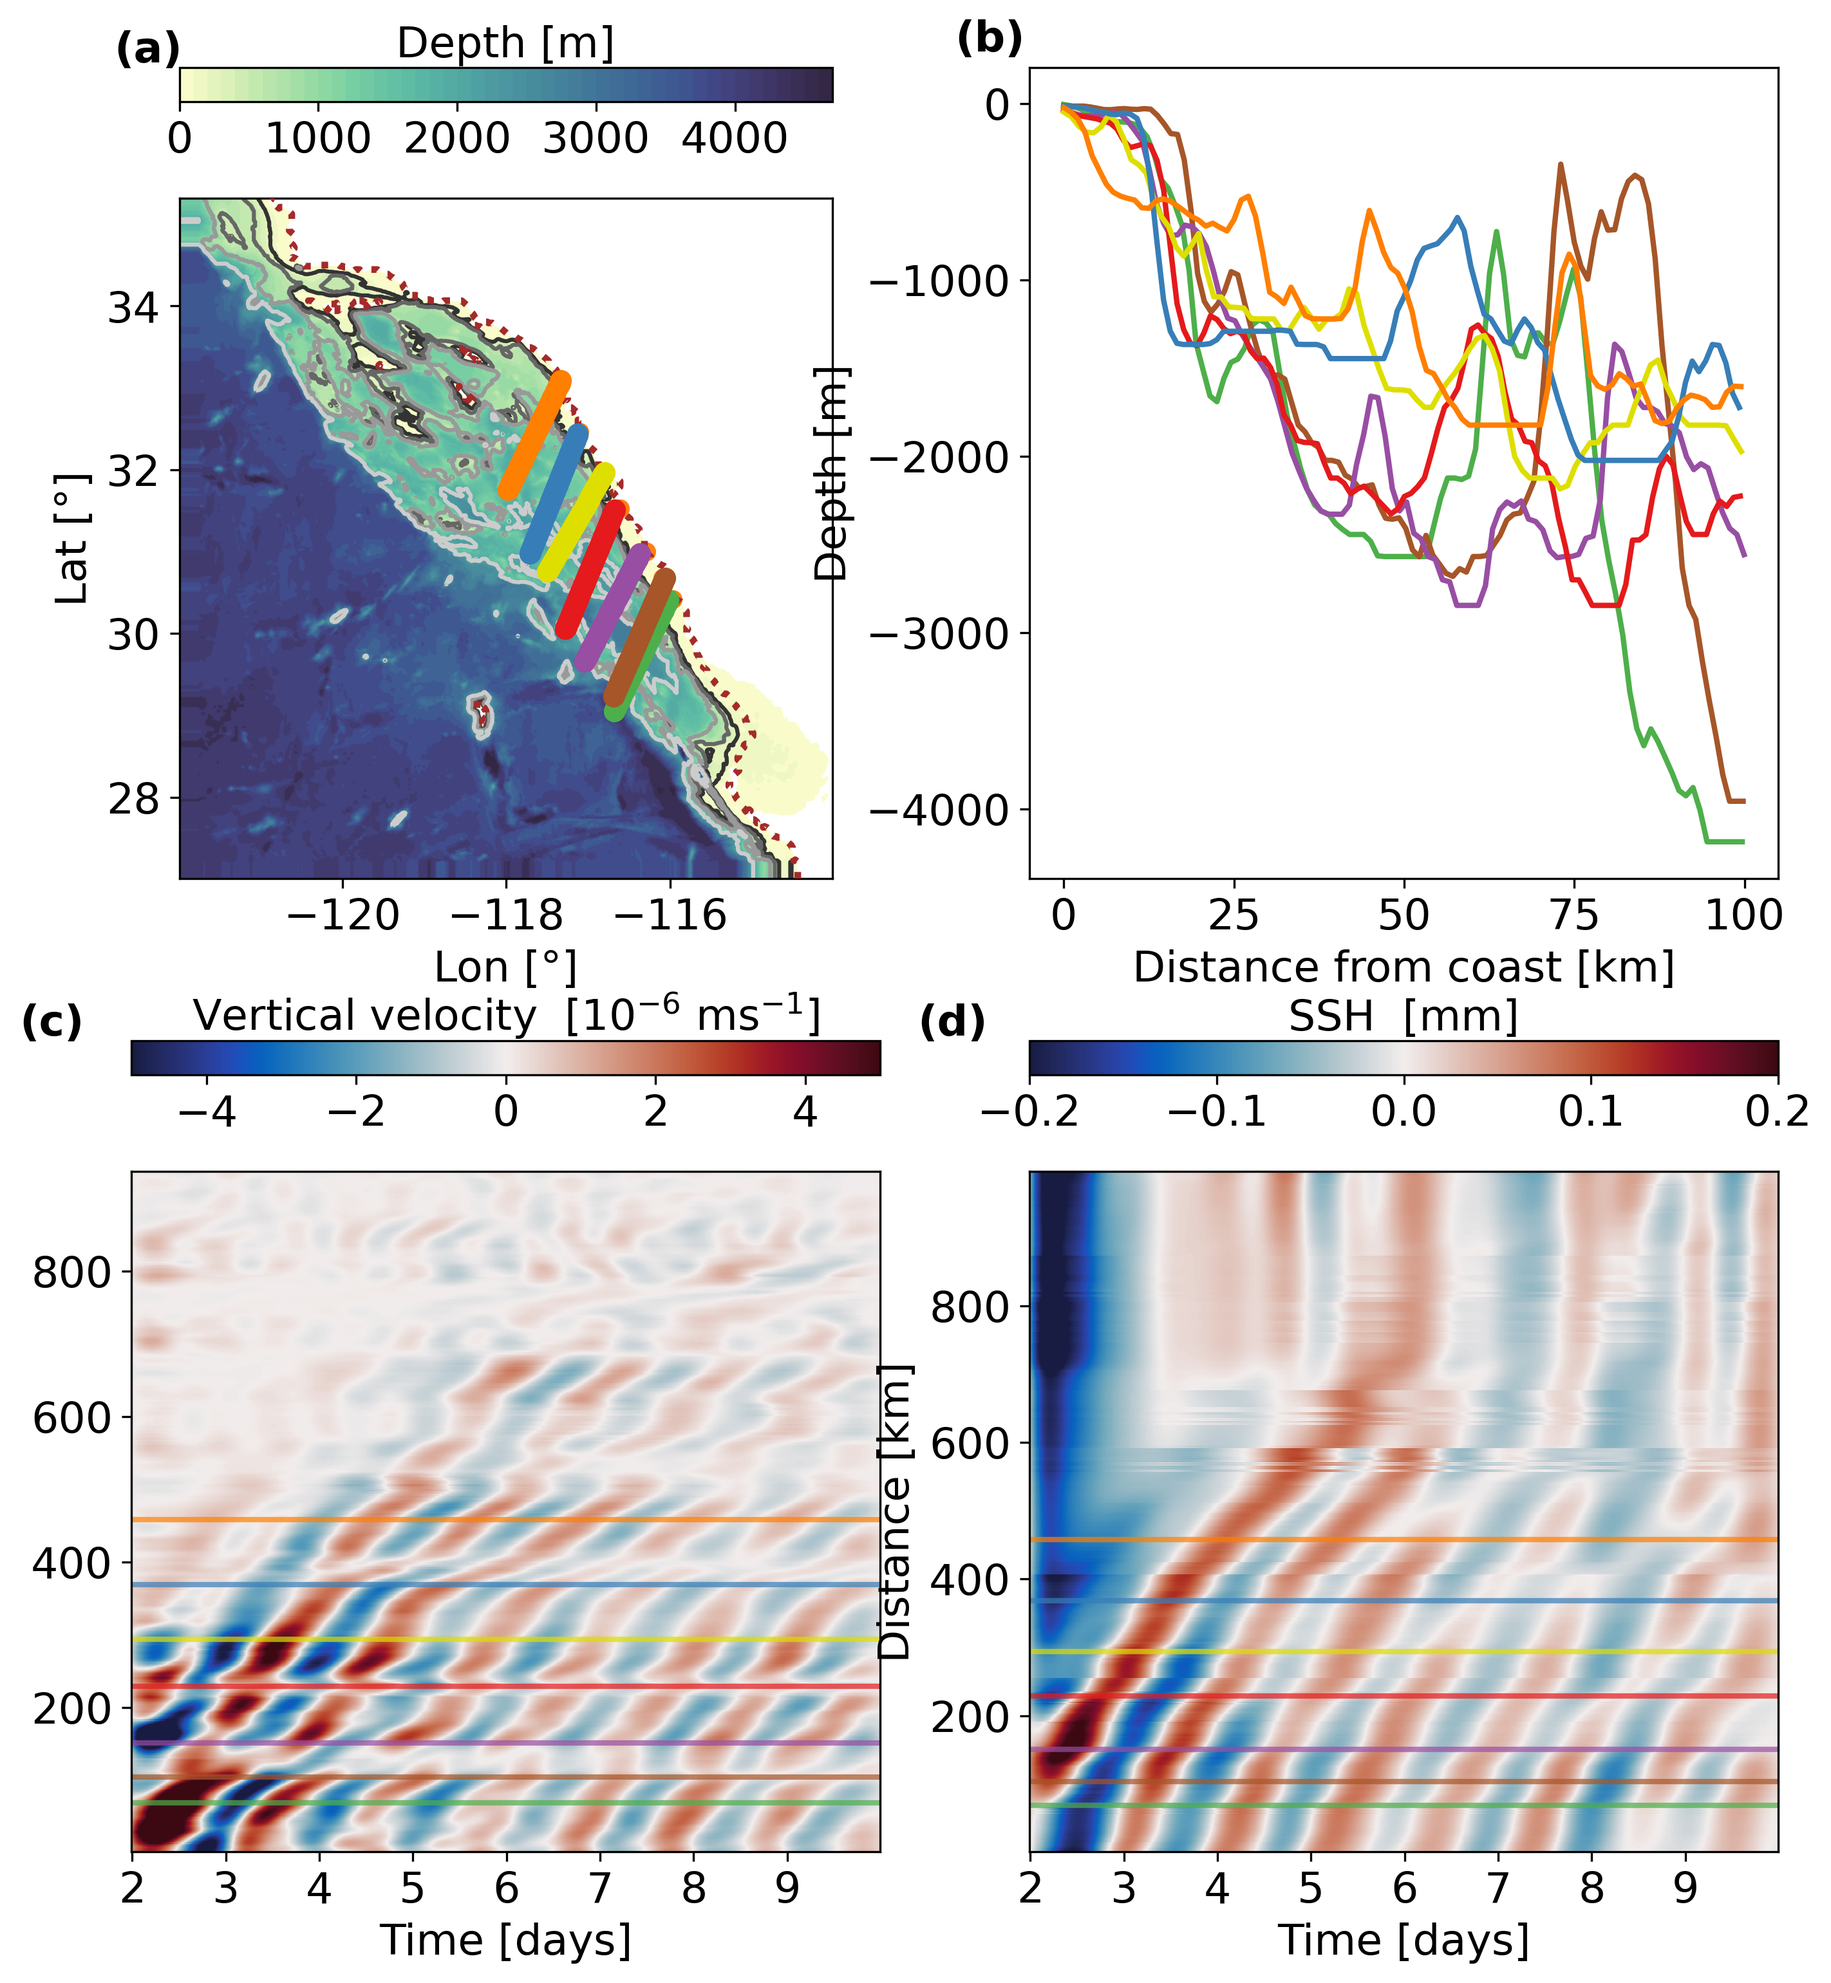
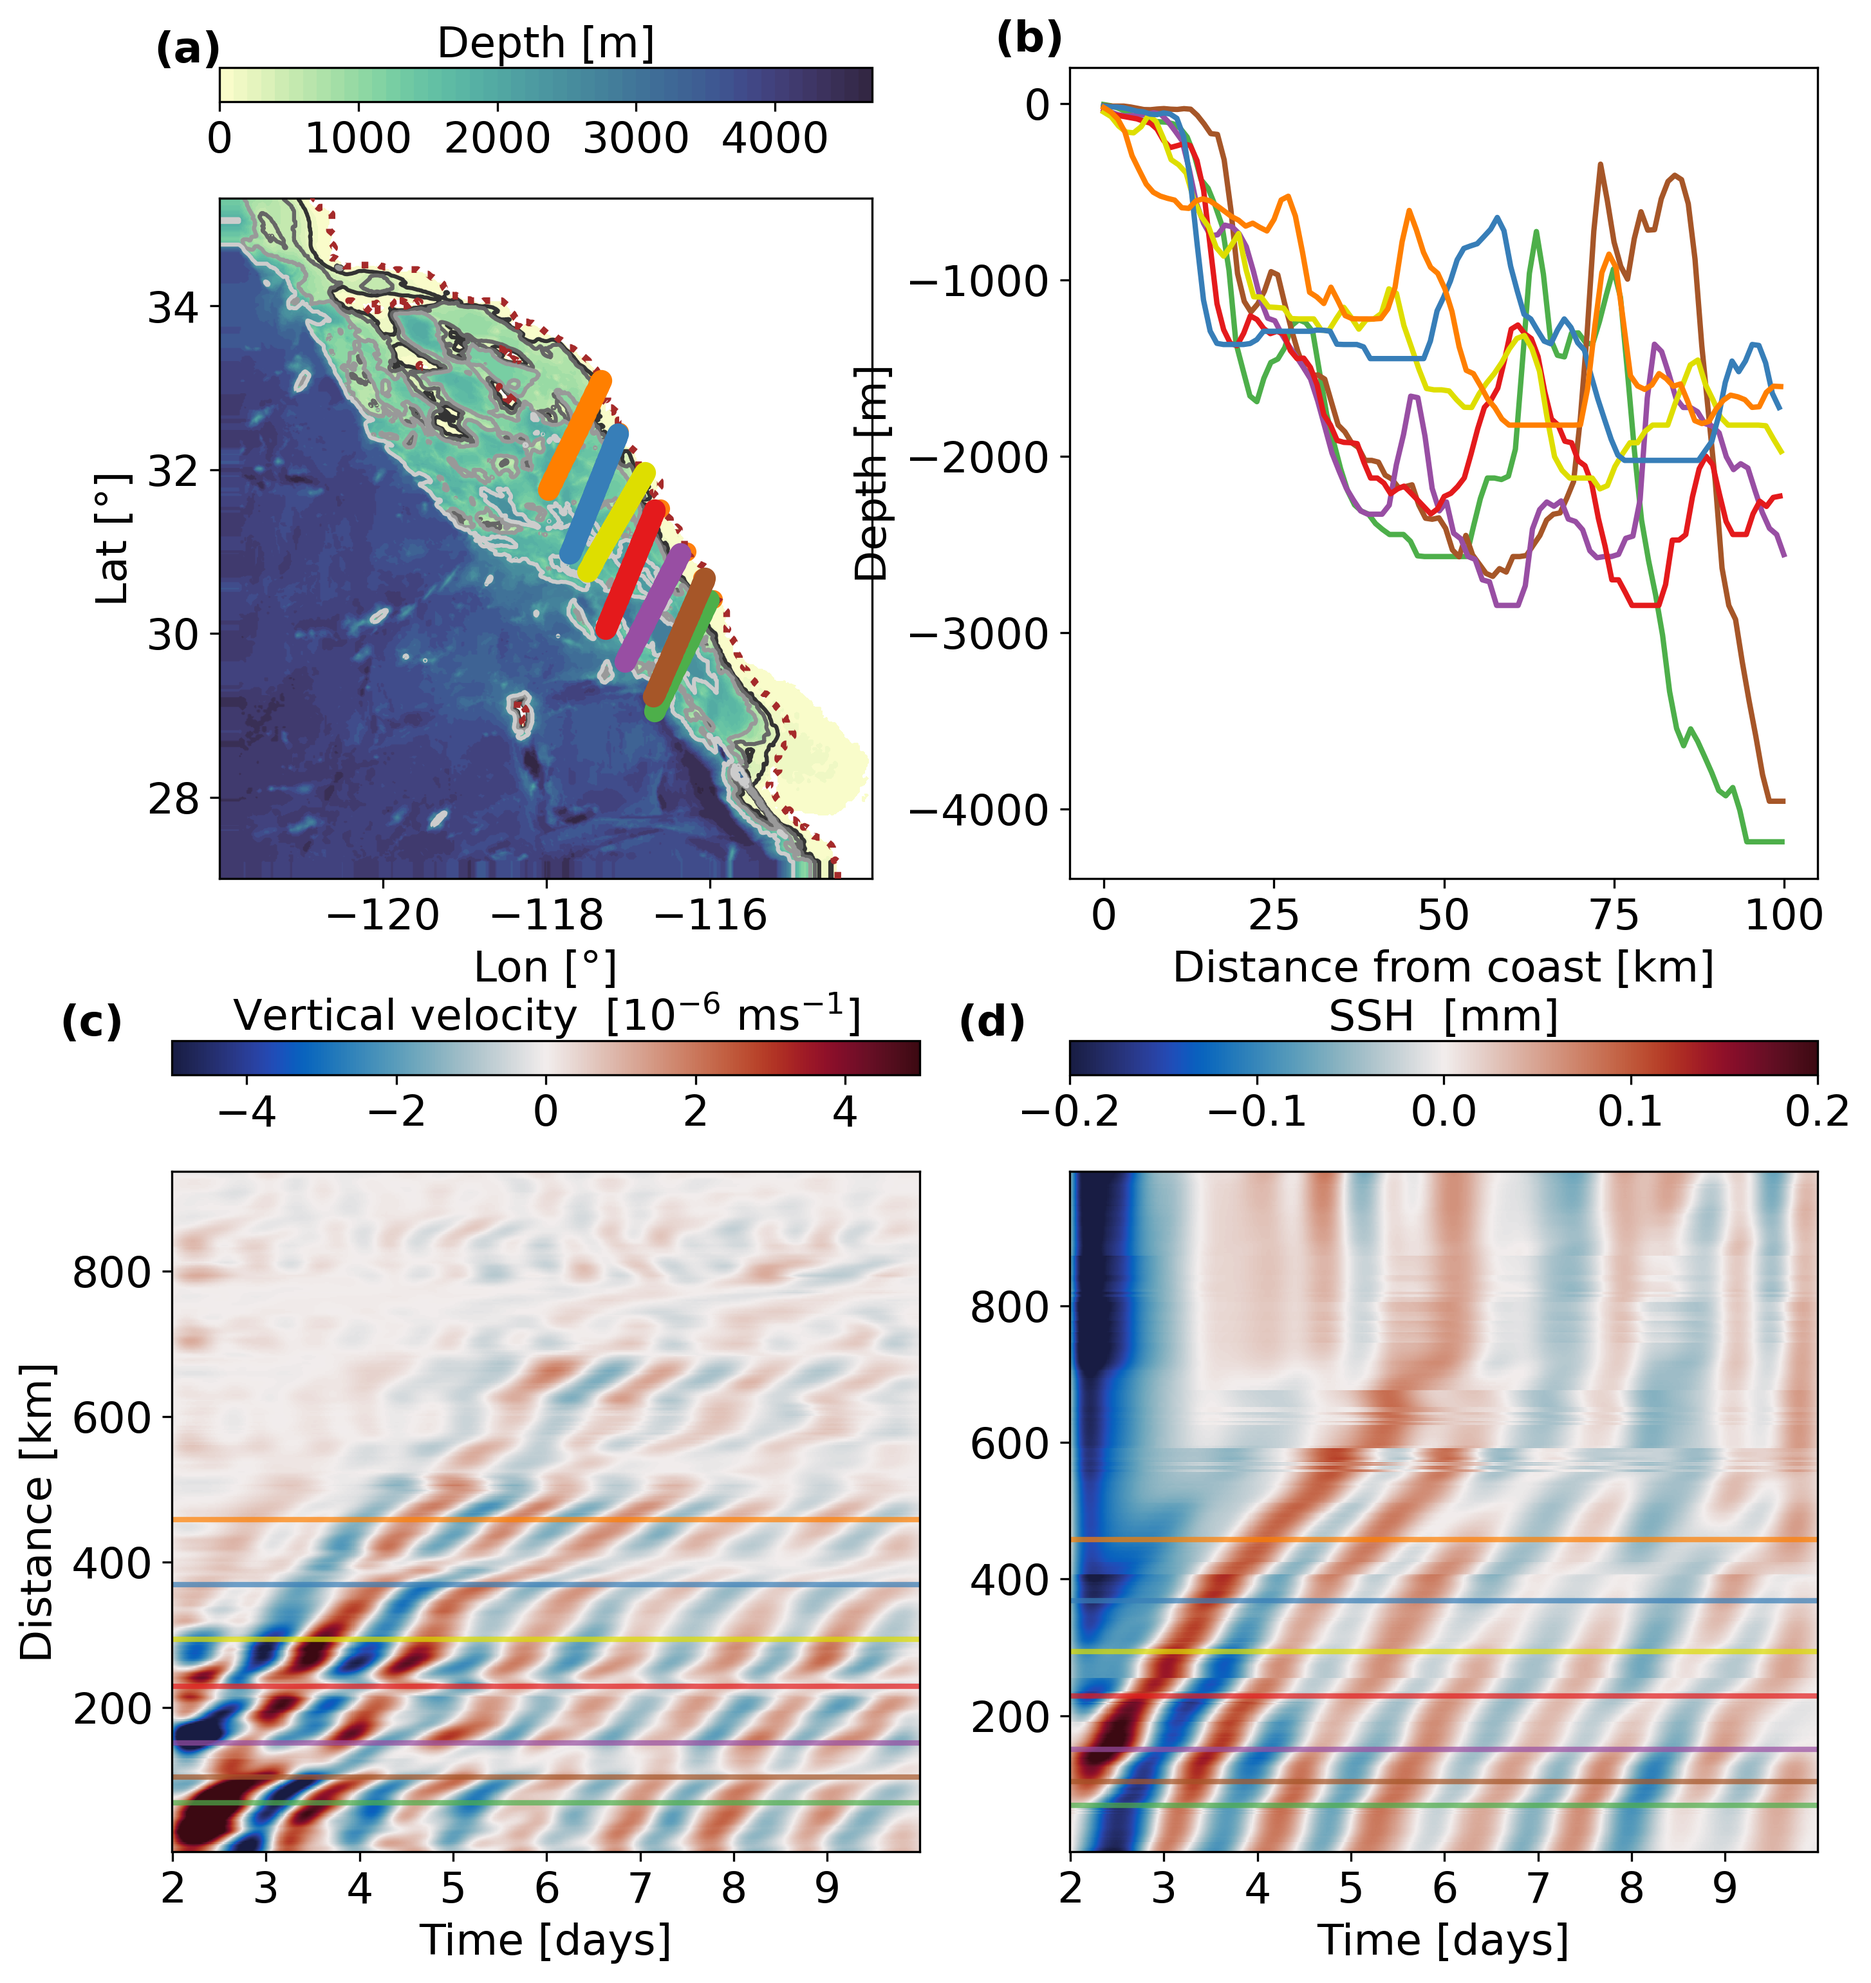
newplot

diff --git a/Scripts/ExtractIndicesPerp2coast.py b/Scripts/ExtractIndicesPerp2coast.py
@@ -250,7 +250,7 @@ ax = fig.add_subplot(gs[1, 0])
 vmin=-5
 vmax=5
 cbarall=0
-SVBfunc.plot_HOVMOLLER(ax,distVEL,TIMEVEL,WVEL*1e6,'','Vertical velocity  [$10^{-6}$ ms$^{-1}$]',vmin,vmax,fig,lat_acVEL,lon_acVEL,0,cbarall,'(c)')
+SVBfunc.plot_HOVMOLLER(ax,distVEL,TIMEVEL,WVEL*1e6,'','Vertical velocity  [$10^{-6}$ ms$^{-1}$]',vmin,vmax,fig,lat_acVEL,lon_acVEL,1,cbarall,'(c)')
 
 for i in range(len(hej2ind)):
 	if len(hej2ind)>20:
@@ -263,7 +263,7 @@ ax = fig.add_subplot(gs[1, 1])
 vmin=-0.2
 vmax=0.2
 cbarall=0
-SVBfunc.plot_HOVMOLLER(ax,distAC,TIMEVEL,ETA*1e3,'','SSH  [mm]',vmin,vmax,fig,lat_ac,lon_ac,1,cbarall,'(d)')
+SVBfunc.plot_HOVMOLLER(ax,distAC,TIMEVEL,ETA*1e3,'','SSH  [mm]',vmin,vmax,fig,lat_ac,lon_ac,0,cbarall,'(d)')
 
 for i in range(len(hej2ind)):
 	if len(hej2ind)>20:
